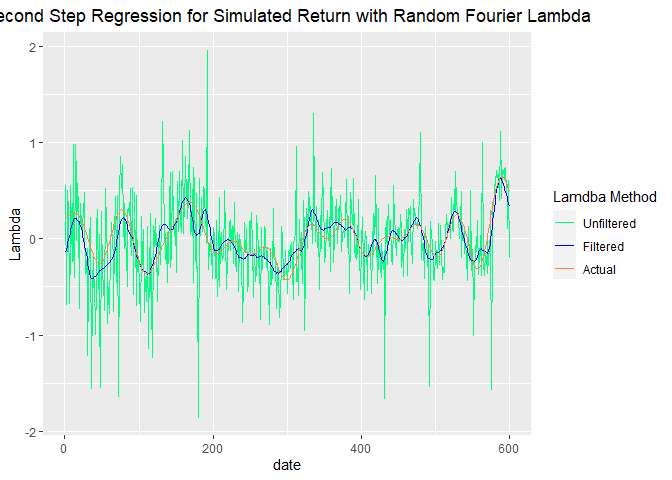
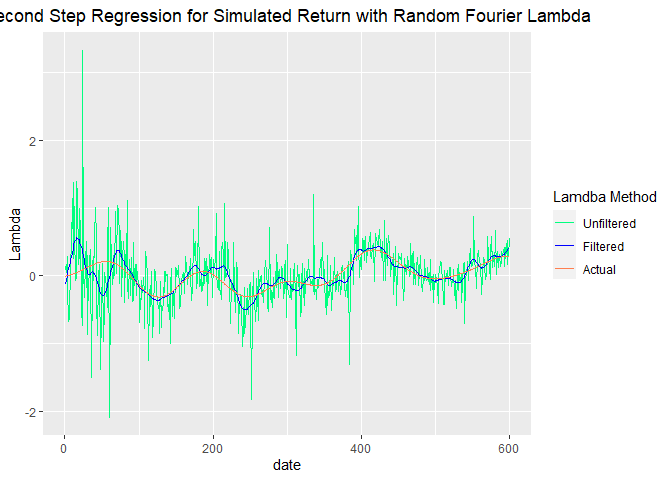
fix y axis again

diff --git a/ECC.md b/ECC.md
@@ -8714,7 +8714,7 @@ random Fourier Lambda.
 
 ![](ECC_files/figure-gfm/unnamed-chunk-18-1.png)<!-- -->
 
-    ## [1] 0.5429094
+    ## [1] 0.5627965
 
 ### S4-4-3 STL Filtering
 
